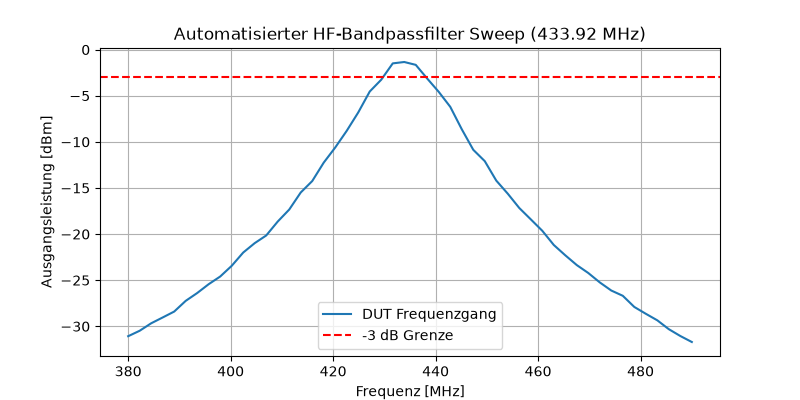
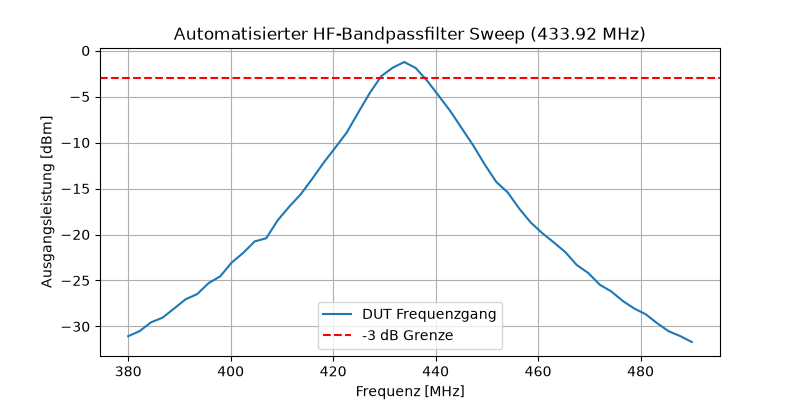
added a Readme

diff --git a/Readme.md b/Readme.md
@@ -1,0 +1,84 @@
+# RF Automated Test Equipment (ATE) – Bandpass Filter Characterization
+
+An automated RF test bench built with **Python**, **PyVISA**, and **Pytest**. This project demonstrates how to remotely control RF laboratory instruments via SCPI commands, perform automated frequency sweeps, and validate a Device Under Test (DUT) against hardware specifications.
+
+Using `pyvisa-sim`, the test bench simulates a real-world hardware setup (Signal Generator + Spectrum Analyzer), making the entire suite reproducible without physical lab equipment.
+
+---
+
+## 🎯 Project Highlights & Architecture
+
+* **Hardware Abstraction Layer (HAL):** Clean separation between instrument SCPI drivers (`drivers/`) and test logic (`tests/`).
+* **Safe Instrument Teardown:** Uses `pytest` fixtures (`yield`) to guarantee that the RF output is switched `OFF` after test execution—even if a test fails or aborts—protecting sensitive RF frontends.
+* **Automated Specification Verification:** Validates insertion loss in the passband (433.92 MHz) and attenuation in the stopbands (380 MHz / 490 MHz).
+* **Automated Reporting & Visualization:** Generates a frequency response plot (`filter_response.png`) after every sweep.
+
+---
+
+## 📁 Project Structure
+
+```text
+ATE/
+├── drivers/
+│   └── rf_bench.py             # SCPI instrument wrappers & DUT response model
+├── sim/
+│   └── rf_instruments.yaml     # PyVISA-sim definitions (R&S SMB100A & Keysight N9020B)
+├── tests/
+│   └── test_filter_sweep.py    # Automated frequency sweep & Pass/Fail assertions
+├── conftest.py                 # Pytest fixtures for VISA resource management & safety teardown
+├── requirements.txt            # Project dependencies
+└── README.md
+```
+
+---
+
+## 🛠 Tech Stack
+
+* **Language:** Python 3.10+
+* **Instrument Control:** `PyVISA` & `PyVISA-sim` (SCPI over virtual USB-TMC)
+* **Test Framework:** `Pytest`
+* **Data Analysis & Plotting:** `NumPy`, `Matplotlib`
+
+---
+
+## 🚀 Getting Started
+
+### 1. Clone the repository
+```bash
+git clone [https://github.com<your-username>/ATE.git](https://github.com/photoleroi/ATE.git)
+cd ATE
+```
+
+### 2. Set up a virtual environment
+```bash
+python3 -m venv venv
+source venv/bin/activate  # On Windows: .\venv\Scripts\activate
+```
+
+### 3. Install dependencies
+```bash
+python3 -m pip install -r requirements.txt
+```
+
+### 4. Run the automated test suite
+```bash
+python3 -m pytest -v
+```
+
+---
+
+## 📊 Example Output
+
+Running the test suite executes a 50-point frequency sweep from **380 MHz to 490 MHz** on a simulated 433.92 MHz bandpass filter:
+
+1. **Passband Check (433.92 MHz):** Verifies insertion loss is within `-2.5 dBm` to `-1.0 dBm`.
+2. **Stopband Rejection (380 MHz & 490 MHz):** Verifies out-of-band attenuation exceeds `25 dB`.
+3. **Plot Generation:** Saves the measured frequency response curve as `filter_response.png` in the root directory.
+
+---
+
+## 🔮 Future Improvements
+
+* [ ] Add cable loss calibration offset table (CSV/JSON) to de-embed test fixture losses.
+* [ ] Integrate `pytest-html` to embed the generated frequency plots directly into an HTML test report.
+* [ ] Add GitHub Actions CI workflow to automatically run the simulated hardware tests on every push.
